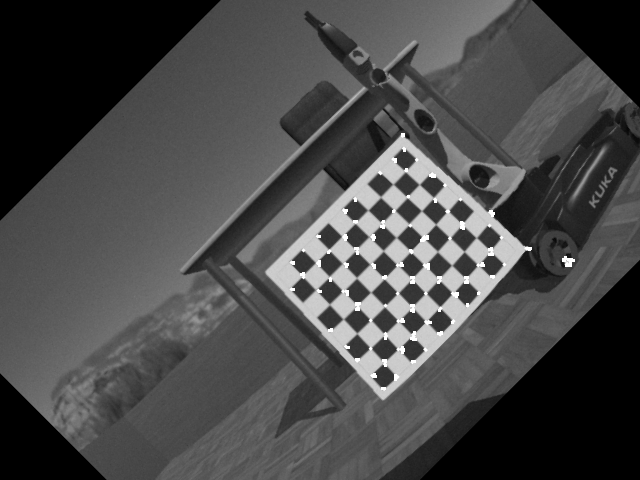
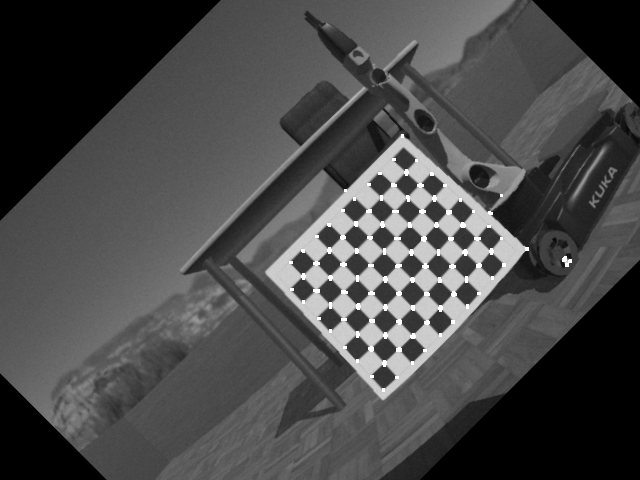
Pregunta3

diff --git a/main.py b/main.py
@@ -10,56 +10,33 @@ from functions import *
 ## Direcciones de donde se va sacar las Imagenes
 path_o = '/home/fer/Control_servo_visual/Code/Practico_3.0/Pictures/'
 path_o1 = '/home/fer/Control_servo_visual/Code/Practico_3.0/Tools/'
+path_o2 = '/home/fer/Control_servo_visual/Code/Practico_3.0/Letters/'
+
 path_w = '/home/fer/Control_servo_visual/Code/Practico_3.0/Modificadas/'
-
-
-def Pregunta_2(imgs, path):
-    contador = 0
-    for img in imgs:
-        frame_HSV = cv2.cvtColor(img, cv2.COLOR_BGR2HSV)
-        frame_threshold = cv2.inRange(frame_HSV, (0, 0, 0), (180, 255, 33))
-
-        kernel1 = np.ones((2,2), np.uint8)  
-        kernel2 = np.ones((6,6), np.uint8)  
-        img_erosion = cv2.erode(frame_threshold, kernel1, iterations=1)
-        img_dilation = cv2.dilate(img_erosion, kernel2, iterations=1)
-
-        M = cv2.moments(img_dilation)
-        # calculate x,y coordinate of center
-        cX = int(M["m10"] / M["m00"])
-        cY = int(M["m01"] / M["m00"])
-        # put text and highlight the center
-        cv2.circle(img, (cX, cY), 5, (255, 255, 255), -1)
-        cv2.putText(img, "Centroide", (cX - 25, cY - 25),cv2.FONT_HERSHEY_SIMPLEX, 0.5, (255, 255, 255), 2)
-
-        name1 = "Pregunta_2_{}.png".format(contador)
-        name2 = "Pregunta_2_normal_{}.png".format(contador)
-        guardar(path, name1, img_dilation)
-        guardar(path, name2, img)
-
-        cv2.imshow("Original", img)
-        cv2.imshow("Dst", img_dilation)
-        cv2.waitKey(0)
-        contador = contador + 1
-    return None
 
 
 def main():
     ## Lectura de las imagenes de prueba del sistema
-    imgs = data(path_o1, 1)
+    #imgs = data(path_o, 1)
 
-    ## Uso de solo una iamgen para pruebas
-    img = imgs[0,:,:]
 
     ## Pregunta_1
-    trans = np.array([[25, 0, 0], [25, 0, 0]])
-    angles = np.array([[0, 45, 0]])
-    scales = np.array([[1, 1, 0.3]])
+    #trans = np.array([[25, 0, 0], [25, 0, 0]])
+    #angles = np.array([[0, 45, 0]])
+    #scales = np.array([[1, 1, 0.3]])
 
     #pregunta_1(imgs, trans, angles, scales, path_w)
 
     ## Pregunta 2
-    Pregunta_2(imgs, path_w)
+    #imgs = data(path_o1, 1)
+
+    #Pregunta_2(imgs, path_w)
+
+    ## Pregunta 4
+    imgs = data(path_o2, 1)
+    img = imgs[0, :, :]
+    cv2.imshow("Letras", img)
+    cv2.waitKey(0)
 
     ## Prueba Funcion 
     #dif, prueba, Mascara = match(img)

diff --git a/functions.py b/functions.py
@@ -76,6 +76,7 @@ def corners(src_gray):
     k = 0.04
 
     ## cambio de variale
+    src_gray = cv2.cvtColor(src_gray, cv2.COLOR_BGR2GRAY)
     src = np.array(src_gray, dtype = np.float32)
 
     # Detecting corners
@@ -104,3 +105,35 @@ def pregunta_1(imgs, tran, angle, scale, path):
             cv2.waitKey(0)
         contador = contador+1
     return None
+
+
+def Pregunta_2(imgs, path):
+    contador = 0
+    for img in imgs:
+        frame_HSV = cv2.cvtColor(img, cv2.COLOR_BGR2HSV)
+        frame_threshold = cv2.inRange(frame_HSV, (0, 0, 0), (180, 255, 33))
+
+        kernel1 = np.ones((2,2), np.uint8)  
+        kernel2 = np.ones((6,6), np.uint8)  
+        img_erosion = cv2.erode(frame_threshold, kernel1, iterations=1)
+        img_dilation = cv2.dilate(img_erosion, kernel2, iterations=1)
+
+        M = cv2.moments(img_dilation)
+        # calculate x,y coordinate of center
+        cX = int(M["m10"] / M["m00"])
+        cY = int(M["m01"] / M["m00"])
+        # put text and highlight the center
+        cv2.circle(img, (cX, cY), 5, (255, 255, 255), -1)
+        cv2.putText(img, "Centroide", (cX - 25, cY - 25),cv2.FONT_HERSHEY_SIMPLEX, 0.5, (255, 255, 255), 2)
+
+        name1 = "Pregunta_2_{}.png".format(contador)
+        name2 = "Pregunta_2_normal_{}.png".format(contador)
+        guardar(path, name1, img_dilation)
+        guardar(path, name2, img)
+
+        cv2.imshow("Original", img)
+        cv2.imshow("Dst", img_dilation)
+        cv2.waitKey(0)
+        contador = contador + 1
+    return None
+
